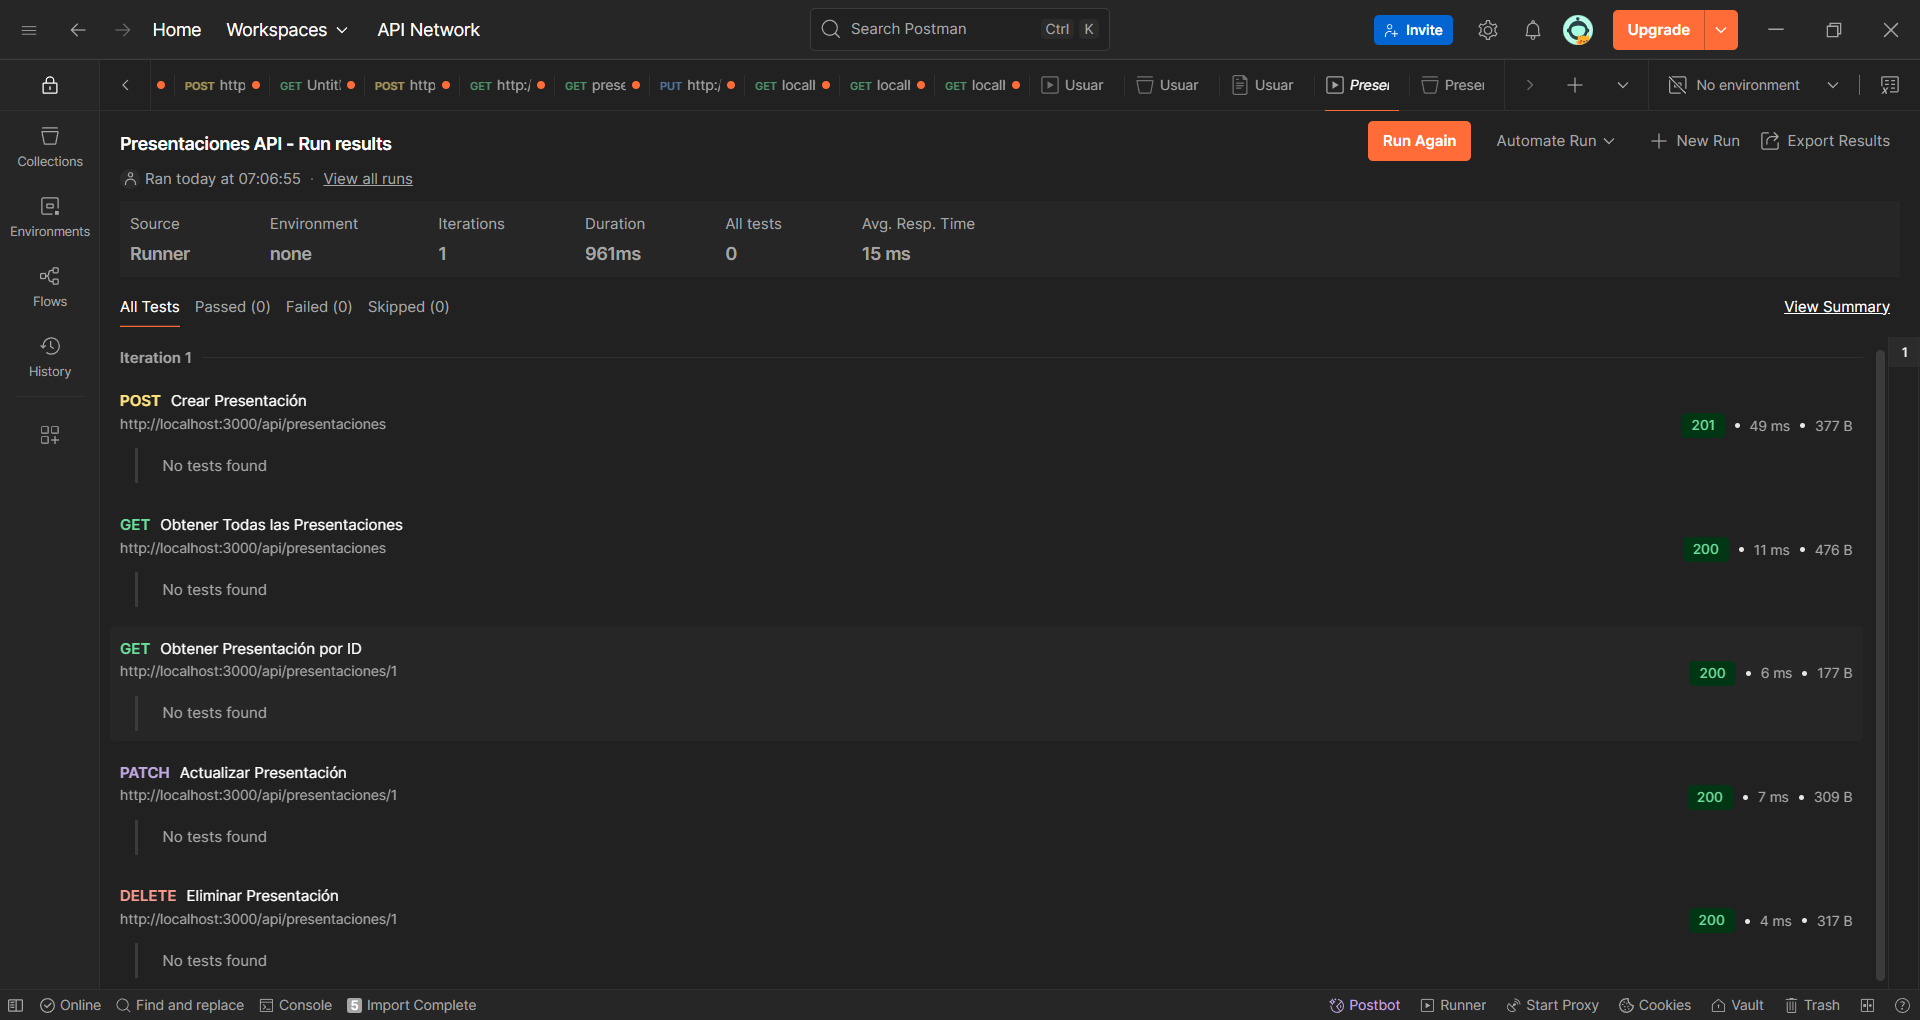
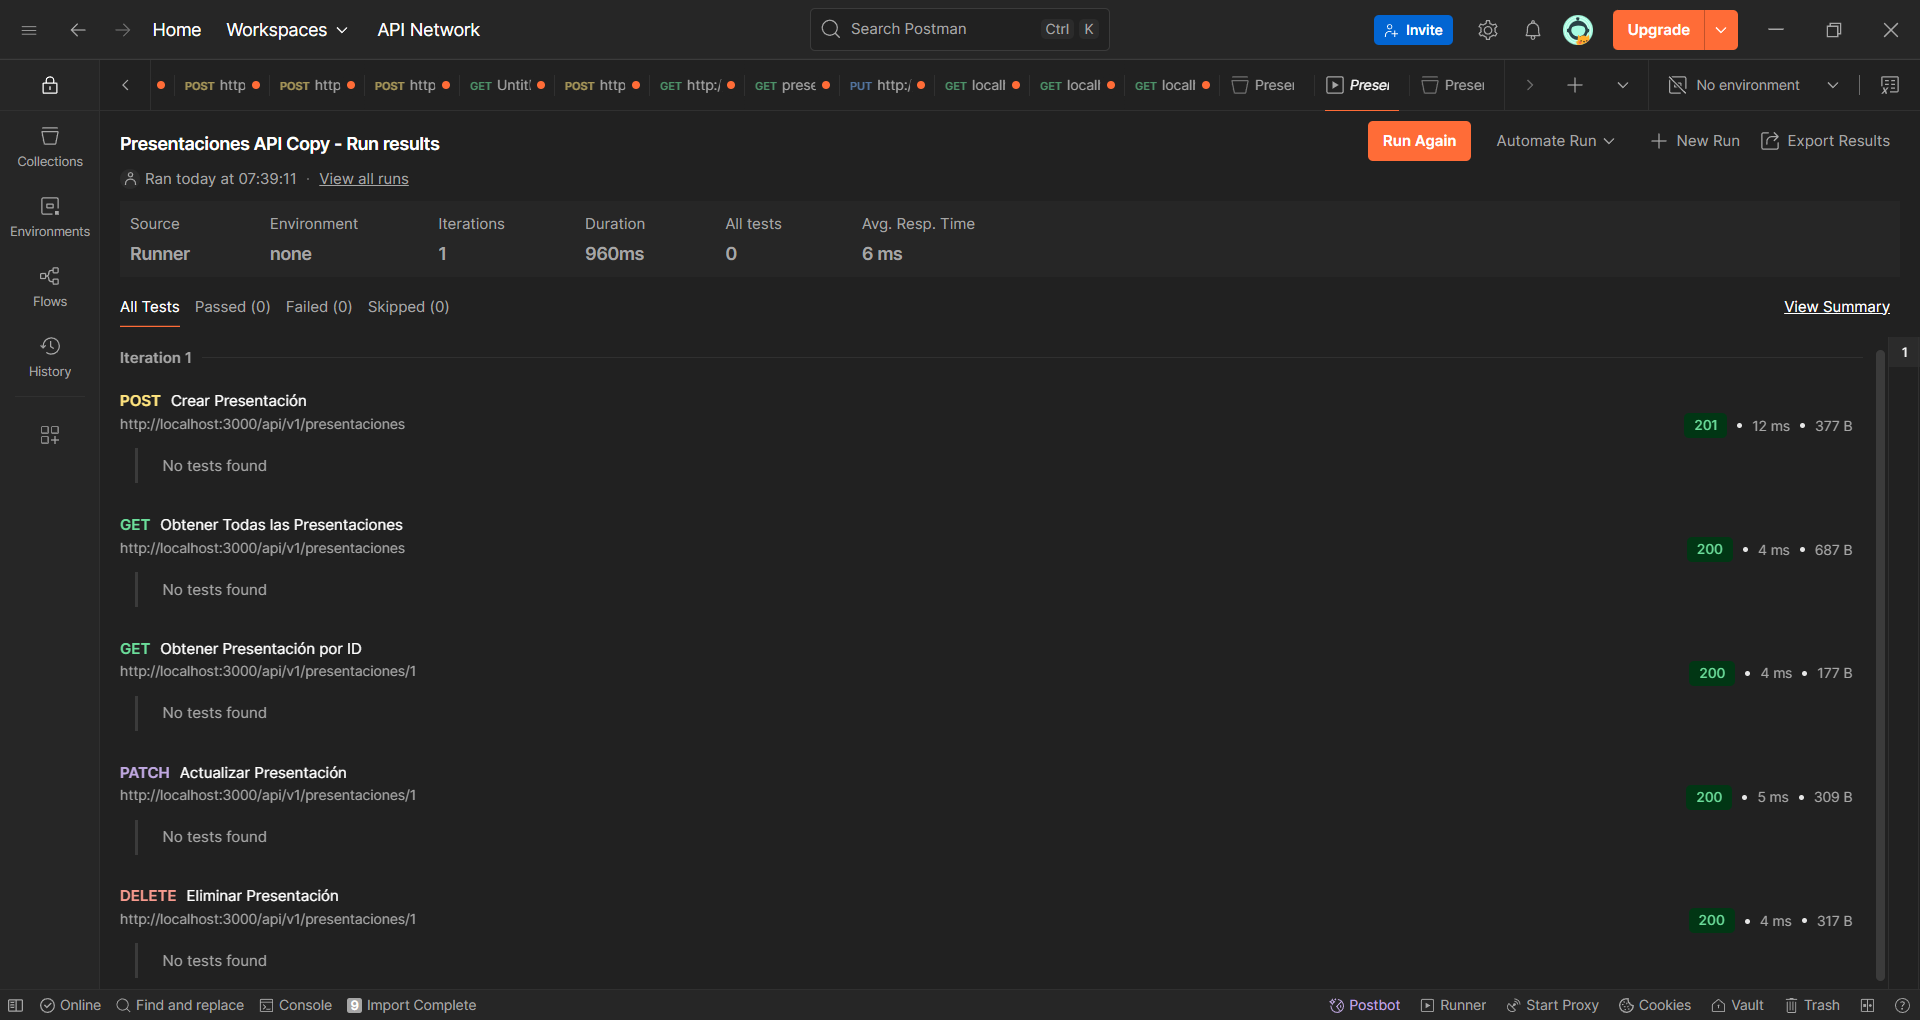
Actualizar rutas de la API para incluir el prefijo global `/api/v1/` en todos los endpoints y corregir nombres de clases en el código.

diff --git a/SegundoParcial/Semana10/api-servicios/src/presentaciones/presentaciones.service.ts b/SegundoParcial/Semana10/api-servicios/src/presentaciones/presentaciones.service.ts
@@ -1,15 +1,15 @@
 import { Injectable } from '@nestjs/common';
 import { InjectRepository } from '@nestjs/typeorm';
 import { Repository } from 'typeorm';
-import { Presentacione } from './entities/presentacione.entity';
+import { Presentacion } from './entities/presentacione.entity';
 import { CreatePresentacioneDto } from './dto/create-presentacione.dto';
 import { UpdatePresentacioneDto } from './dto/update-presentacione.dto';
 
 @Injectable()
 export class PresentacionesService {
   constructor(
-    @InjectRepository(Presentacione)
-    private presnsetacionesRepository: Repository<Presentacione>,
+    @InjectRepository(Presentacion)
+    private presnsetacionesRepository: Repository<Presentacion>,
   ) {}
 
   create(createPresentacioneDto: CreatePresentacioneDto) {

diff --git a/SegundoParcial/Semana10/api-servicios/src/usuarios/dto/create-usuario.dto.ts b/SegundoParcial/Semana10/api-servicios/src/usuarios/dto/create-usuario.dto.ts
@@ -1,22 +1,26 @@
-import { IsEmail, IsNumber, IsIn, IsOptional, IsString, Length } from 'class-validator';
+import { IsEmail, IsIn, IsOptional, IsString, IsNotEmpty, Length } from 'class-validator';
+
 export class CreateUsuarioDto {
 
-    @IsNumber()
     @IsOptional()
-    id: number;
+    id?: number;
 
     @IsString()
-    @Length(3, 50) 
+    @IsNotEmpty()
+    @Length(3, 50)
     nombre: string;
 
     @IsEmail()
+    @IsNotEmpty()
     correo: string;
 
     @IsString()
+    @IsNotEmpty()
     @Length(4, 32)
     password: string;
 
     @IsString()
+    @IsNotEmpty()
     @IsIn(['admin', 'usuario'])
     rol: string;
 }

diff --git a/SegundoParcial/Semana10/api-servicios/src/presentaciones/presentaciones.module.ts b/SegundoParcial/Semana10/api-servicios/src/presentaciones/presentaciones.module.ts
@@ -1,11 +1,11 @@
 import { Module } from '@nestjs/common';
 import { PresentacionesService } from './presentaciones.service';
 import { PresentacionesController } from './presentaciones.controller';
-import { Presentacione } from './entities/presentacione.entity';
+import { Presentacion } from './entities/presentacione.entity';
 import { TypeOrmModule } from '@nestjs/typeorm';
 
 @Module({
-  imports: [TypeOrmModule.forFeature([Presentacione])],
+  imports: [TypeOrmModule.forFeature([Presentacion])],
   controllers: [PresentacionesController],
   providers: [PresentacionesService],
   exports: [TypeOrmModule],

diff --git a/SegundoParcial/Semana10/api-servicios/src/slides/dto/create-slide.dto.ts b/SegundoParcial/Semana10/api-servicios/src/slides/dto/create-slide.dto.ts
@@ -1,24 +1,27 @@
-import { IsInt, IsNumber, IsOptional, Min, IsString, Length } from 'class-validator';
+import { IsInt, IsOptional, IsString, IsNotEmpty, Length, Min } from 'class-validator';
 
 export class CreateSlideDto {
-
-    @IsNumber()
+    
     @IsOptional()
-    id: number;
+    id?: number;
 
     @IsString()
+    @IsNotEmpty()
     @Length(3, 100)
     titulo: string;
 
     @IsString()
+    @IsNotEmpty()
     @Length(3, 500)
     contenido: string;
 
     @IsInt()
+    @IsNotEmpty()
     @Min(1)
     orden: number;
 
     @IsInt()
+    @IsNotEmpty()
     @Min(1)
     presentacionId: number;
 }

diff --git a/SegundoParcial/Semana10/api-servicios/src/presentaciones/entities/presentacione.entity.ts b/SegundoParcial/Semana10/api-servicios/src/presentaciones/entities/presentacione.entity.ts
@@ -1,18 +1,19 @@
 import { Entity, PrimaryGeneratedColumn, Column } from 'typeorm';
 
 @Entity()
-export class Presentacione {
+export class Presentacion {
+
     @PrimaryGeneratedColumn()
     id: number;
 
-    @Column()
+    @Column({ length: 100 })
     titulo: string;
 
-    @Column()
+    @Column({ length: 500 })
     descripcion: string;
 
-    @Column()
-    fecha: string;
+    @Column({ type: 'date' })
+    fecha: string; 
 
     @Column()
     usuarioId: number;

diff --git a/SegundoParcial/Semana10/api-servicios/src/main.ts b/SegundoParcial/Semana10/api-servicios/src/main.ts
@@ -5,7 +5,7 @@ import { ValidationPipe } from '@nestjs/common';
 async function bootstrap() {
   const app = await NestFactory.create(AppModule);
   app.enableCors();
-  app.setGlobalPrefix('api');
+  app.setGlobalPrefix('api/v1');
   app.useGlobalPipes(new ValidationPipe({
     whitelist: true, 
     forbidNonWhitelisted: true, 

diff --git a/SegundoParcial/Semana10/api-servicios/README.md b/SegundoParcial/Semana10/api-servicios/README.md
@@ -36,6 +36,12 @@ El servidor estará disponible en: [http://localhost:3000](http://localhost:3000
 
 ## Pruebas de la API
 
+**Todas las rutas inician con `/api/v1/` debido a la configuración global:**
+
+```typescript
+app.setGlobalPrefix('api/v1');
+```
+
 Puedes probar los endpoints usando [Postman](https://www.postman.com/) importando las colecciones o mediante los ejemplos de curl.
 
 ---
@@ -58,55 +64,55 @@ Puedes probar los endpoints usando [Postman](https://www.postman.com/) importand
 #### **Usuarios**
 ```bash
 # Crear usuario
-curl -X POST http://localhost:3000/api/usuarios -H "Content-Type: application/json" -d '{"nombre":"Tony","correo":"tony@mail.com","password":"123456","rol":"admin"}'
+curl -X POST http://localhost:3000/api/v1/usuarios -H "Content-Type: application/json" -d "{\"nombre\":\"Tony\",\"correo\":\"tony@mail.com\",\"password\":\"123456\",\"rol\":\"admin\"}"
 
 # Obtener todos los usuarios
-curl http://localhost:3000/api/usuarios
+curl http://localhost:3000/api/v1/usuarios
 
 # Obtener usuario por id
-curl http://localhost:3000/api/usuarios/1
+curl http://localhost:3000/api/v1/usuarios/1
 
 # Actualizar usuario
-curl -X PATCH http://localhost:3000/api/usuarios/1 -H "Content-Type: application/json" -d '{"nombre":"Tony Actualizado"}'
+curl -X PATCH http://localhost:3000/api/v1/usuarios/1 -H "Content-Type: application/json" -d "{\"nombre\":\"Tony Actualizado\"}"
 
 # Eliminar usuario
-curl -X DELETE http://localhost:3000/api/usuarios/1
+curl -X DELETE http://localhost:3000/api/v1/usuarios/1
 ```
 
 #### **Presentaciones**
 ```bash
 # Crear presentación
-curl -X POST http://localhost:3000/api/presentaciones -H "Content-Type: application/json" -d '{"titulo":"API REST","descripcion":"Presentación de ejemplo","fecha":"2025-06-25","usuarioId":1}'
+curl -X POST http://localhost:3000/api/v1/presentaciones -H "Content-Type: application/json" -d "{\"titulo\":\"API REST\",\"descripcion\":\"Presentación de ejemplo\",\"fecha\":\"2025-06-25\",\"usuarioId\":1}"
 
 # Obtener todas las presentaciones
-curl http://localhost:3000/api/presentaciones
+curl http://localhost:3000/api/v1/presentaciones
 
 # Obtener presentación por id
-curl http://localhost:3000/api/presentaciones/1
+curl http://localhost:3000/api/v1/presentaciones/1
 
 # Actualizar presentación
-curl -X PATCH http://localhost:3000/api/presentaciones/1 -H "Content-Type: application/json" -d '{"titulo":"API REST Actualizada"}'
+curl -X PATCH http://localhost:3000/api/v1/presentaciones/1 -H "Content-Type: application/json" -d "{\"titulo\":\"API REST Actualizada\"}"
 
 # Eliminar presentación
-curl -X DELETE http://localhost:3000/api/presentaciones/1
+curl -X DELETE http://localhost:3000/api/v1/presentaciones/1
 ```
 
 #### **Slides**
 ```bash
 # Crear slide
-curl -X POST http://localhost:3000/api/slides -H "Content-Type: application/json" -d '{"titulo":"Introducción","contenido":"Bienvenidos a la presentación","orden":1,"presentacionId":1}'
+curl -X POST http://localhost:3000/api/v1/slides -H "Content-Type: application/json" -d "{\"titulo\":\"Introducción\",\"contenido\":\"Bienvenidos a la presentación\",\"orden\":1,\"presentacionId\":1}"
 
 # Obtener todos los slides
-curl http://localhost:3000/api/slides
+curl http://localhost:3000/api/v1/slides
 
 # Obtener slide por id
-curl http://localhost:3000/api/slides/1
+curl http://localhost:3000/api/v1/slides/1
 
 # Actualizar slide
-curl -X PATCH http://localhost:3000/api/slides/1 -H "Content-Type: application/json" -d '{"titulo":"Introducción Modificada"}'
+curl -X PATCH http://localhost:3000/api/v1/slides/1 -H "Content-Type: application/json" -d "{\"titulo\":\"Introducción Modificada\"}"
 
 # Eliminar slide
-curl -X DELETE http://localhost:3000/api/slides/1
+curl -X DELETE http://localhost:3000/api/v1/slides/1
 ```
 
 ---
@@ -115,6 +121,7 @@ curl -X DELETE http://localhost:3000/api/slides/1
 
 - Puedes modificar los ejemplos de curl según los datos reales que vayas generando.
 - Cada entidad tiene 5 endpoints principales: crear, obtener todos, obtener por id, actualizar y eliminar.
+- **Recuerda:** Todas las rutas comienzan con `/api/v1/` por el prefijo global.
 
 ---
 

diff --git a/SegundoParcial/Semana10/api-servicios/ejemplos-curl.md b/SegundoParcial/Semana10/api-servicios/ejemplos-curl.md
@@ -5,19 +5,19 @@
 ### **Usuarios**
 ```bash
 # 1. Crear usuario
-curl -X POST http://localhost:3000/api/usuarios -H "Content-Type: application/json" -d '{"nombre":"Tony","correo":"tony@mail.com","password":"123456","rol":"admin"}'
+curl -X POST http://localhost:3000/api/v1/usuarios -H "Content-Type: application/json" -d '{"nombre":"Tony","correo":"tony@mail.com","password":"123456","rol":"admin"}'
 
 # 2. Obtener todos los usuarios
-curl http://localhost:3000/api/usuarios
+curl http://localhost:3000/api/v1/usuarios
 
 # 3. Obtener usuario por id
-curl http://localhost:3000/api/usuarios/1
+curl http://localhost:3000/api/v1/usuarios/1
 
 # 4. Actualizar usuario
-curl -X PATCH http://localhost:3000/api/usuarios/1 -H "Content-Type: application/json" -d '{"nombre":"Tony Actualizado"}'
+curl -X PATCH http://localhost:3000/api/v1/usuarios/1 -H "Content-Type: application/json" -d '{"nombre":"Tony Actualizado"}'
 
 # 5. Eliminar usuario
-curl -X DELETE http://localhost:3000/api/usuarios/1
+curl -X DELETE http://localhost:3000/api/v1/usuarios/1
 ```
 
 ---
@@ -25,19 +25,19 @@ curl -X DELETE http://localhost:3000/api/usuarios/1
 ### **Presentaciones**
 ```bash
 # 6. Crear presentación
-curl -X POST http://localhost:3000/api/presentaciones -H "Content-Type: application/json" -d '{"titulo":"API REST","descripcion":"Presentación de ejemplo","fecha":"2025-06-25","usuarioId":1}'
+curl -X POST http://localhost:3000/api/v1/presentaciones -H "Content-Type: application/json" -d '{"titulo":"API REST","descripcion":"Presentación de ejemplo","fecha":"2025-06-25","usuarioId":1}'
 
 # 7. Obtener todas las presentaciones
-curl http://localhost:3000/api/presentaciones
+curl http://localhost:3000/api/v1/presentaciones
 
 # 8. Obtener presentación por id
-curl http://localhost:3000/api/presentaciones/1
+curl http://localhost:3000/api/v1/presentaciones/1
 
 # 9. Actualizar presentación
-curl -X PATCH http://localhost:3000/api/presentaciones/1 -H "Content-Type: application/json" -d '{"titulo":"API REST Actualizada"}'
+curl -X PATCH http://localhost:3000/api/v1/presentaciones/1 -H "Content-Type: application/json" -d '{"titulo":"API REST Actualizada"}'
 
 # 10. Eliminar presentación
-curl -X DELETE http://localhost:3000/api/presentaciones/1
+curl -X DELETE http://localhost:3000/api/v1/presentaciones/1
 ```
 
 ---
@@ -45,17 +45,17 @@ curl -X DELETE http://localhost:3000/api/presentaciones/1
 ### **Slides**
 ```bash
 # 11. Crear slide
-curl -X POST http://localhost:3000/api/slides -H "Content-Type: application/json" -d '{"titulo":"Introducción","contenido":"Bienvenidos a la presentación","orden":1,"presentacionId":1}'
+curl -X POST http://localhost:3000/api/v1/slides -H "Content-Type: application/json" -d '{"titulo":"Introducción","contenido":"Bienvenidos a la presentación","orden":1,"presentacionId":1}'
 
 # 12. Obtener todos los slides
-curl http://localhost:3000/api/slides
+curl http://localhost:3000/api/v1/slides
 
 # 13. Obtener slide por id
-curl http://localhost:3000/api/slides/1
+curl http://localhost:3000/api/v1/slides/1
 
 # 14. Actualizar slide
-curl -X PATCH http://localhost:3000/api/slides/1 -H "Content-Type: application/json" -d '{"titulo":"Introducción Modificada"}'
+curl -X PATCH http://localhost:3000/api/v1/slides/1 -H "Content-Type: application/json" -d '{"titulo":"Introducción Modificada"}'
 
 # 15. Eliminar slide
-curl -X DELETE http://localhost:3000/api/slides/1
+curl -X DELETE http://localhost:3000/api/v1/slides/1
 ```
